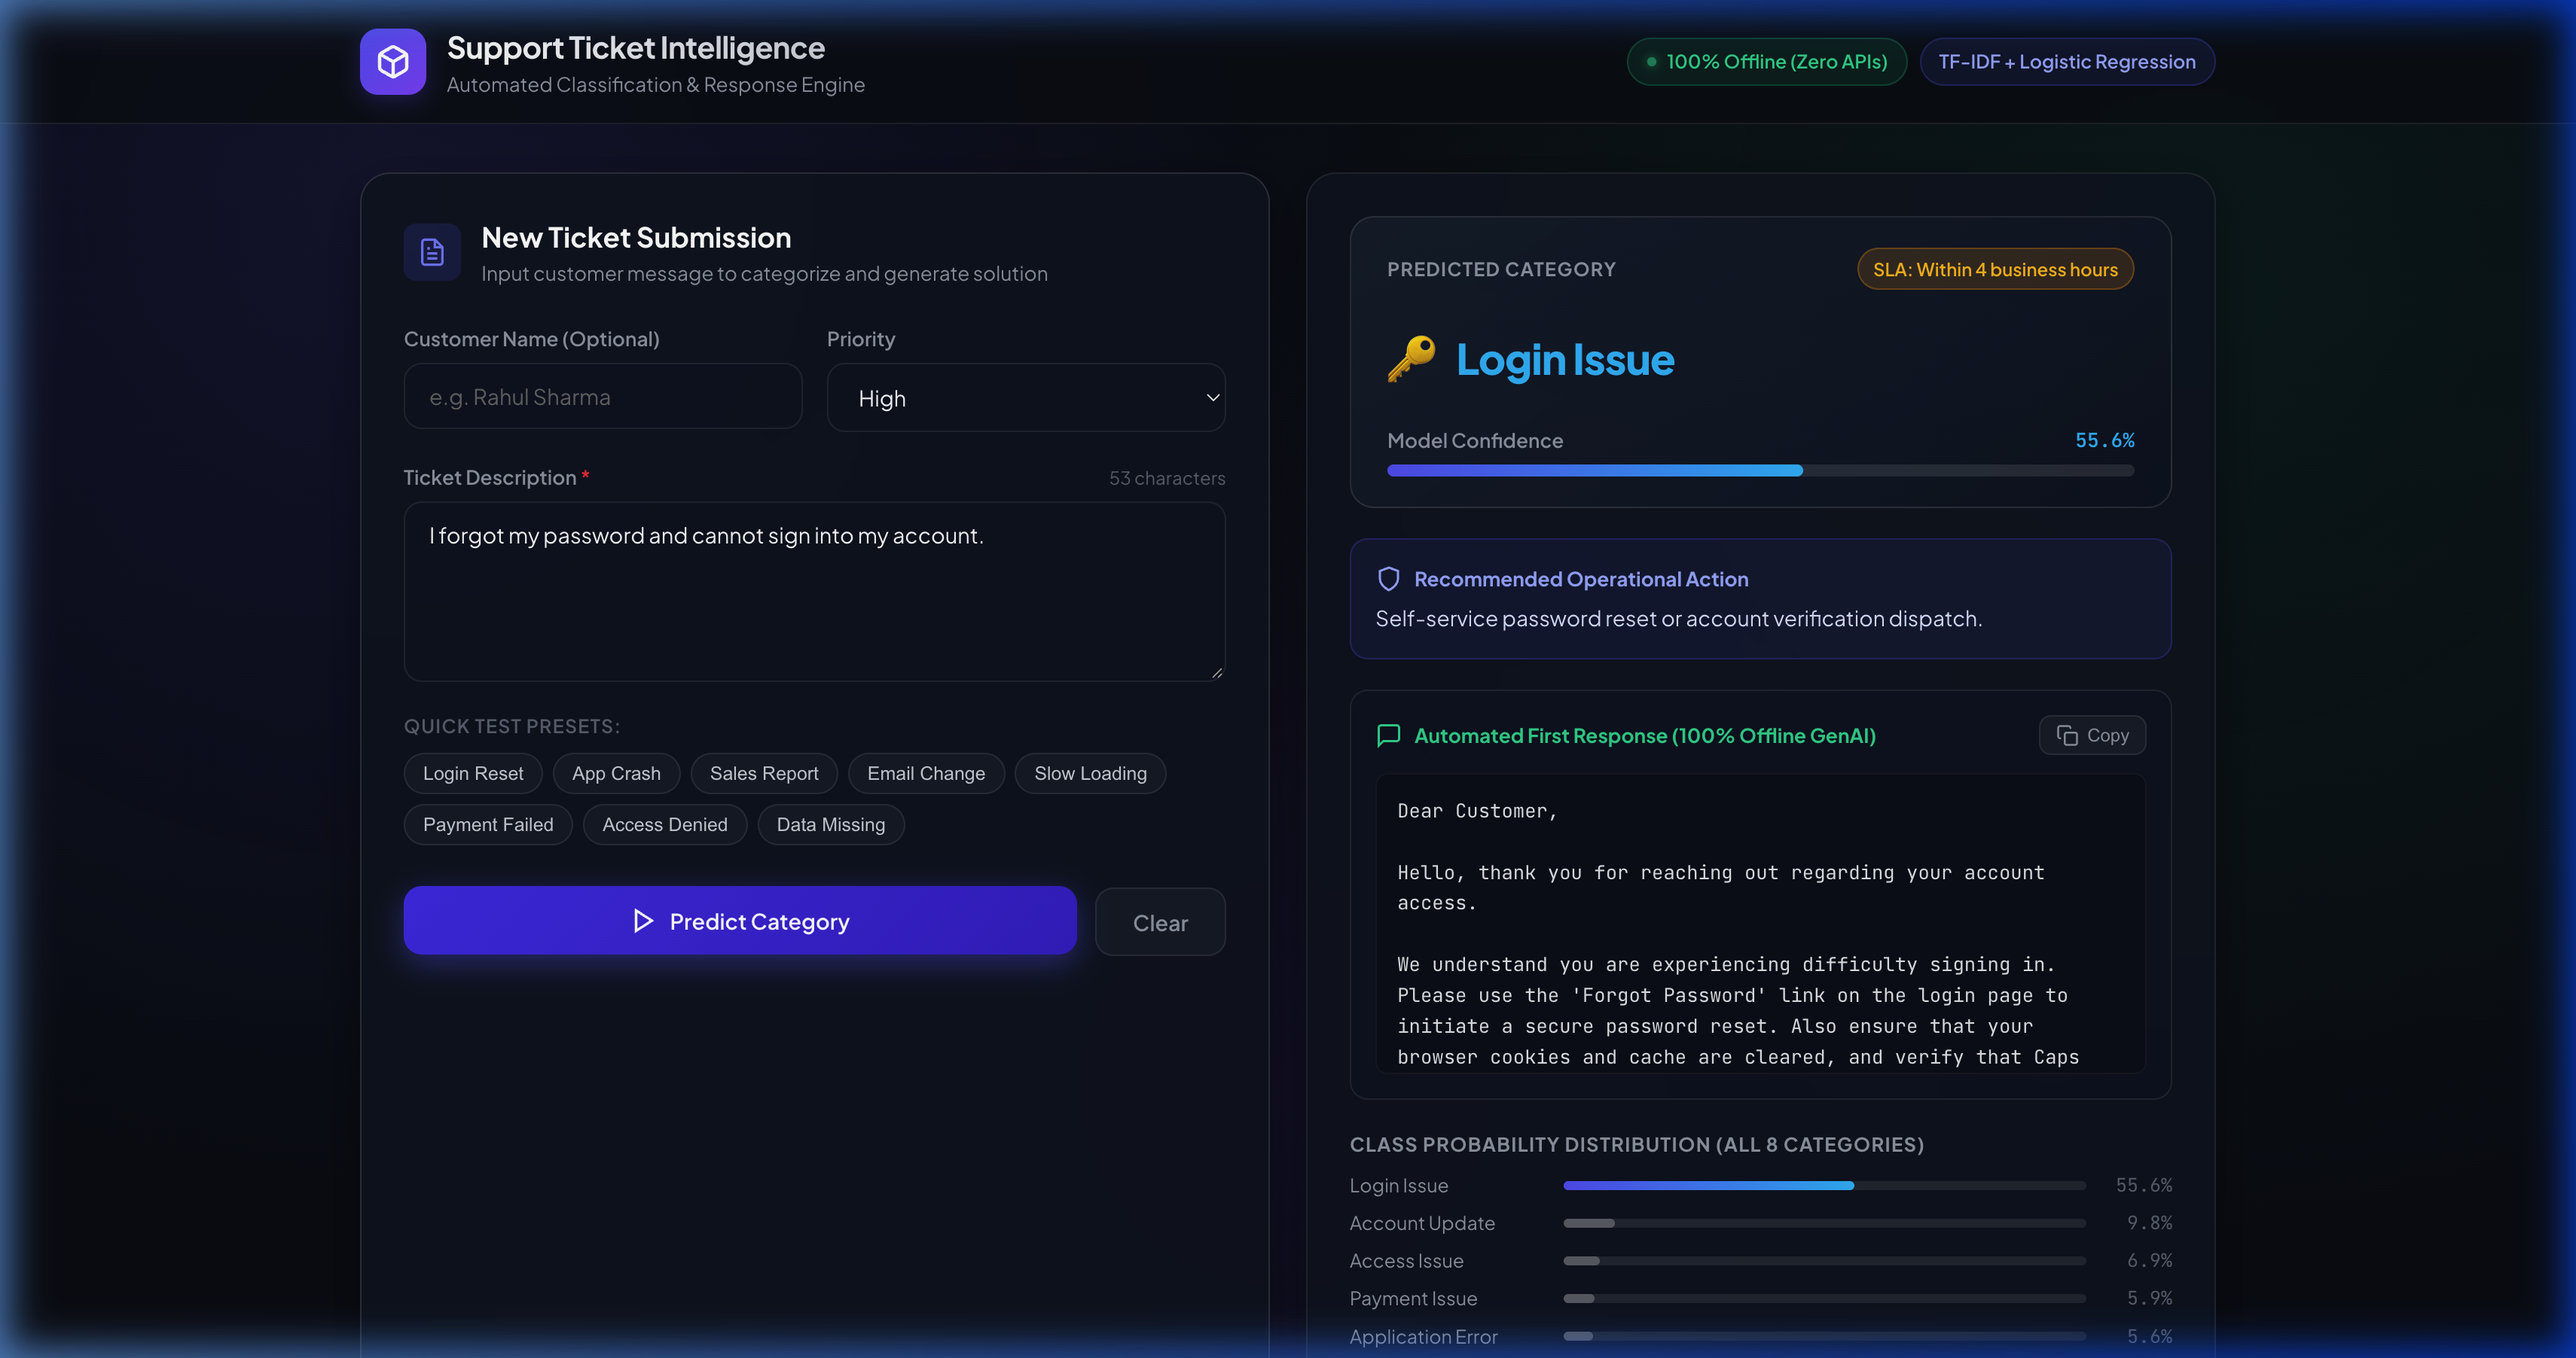
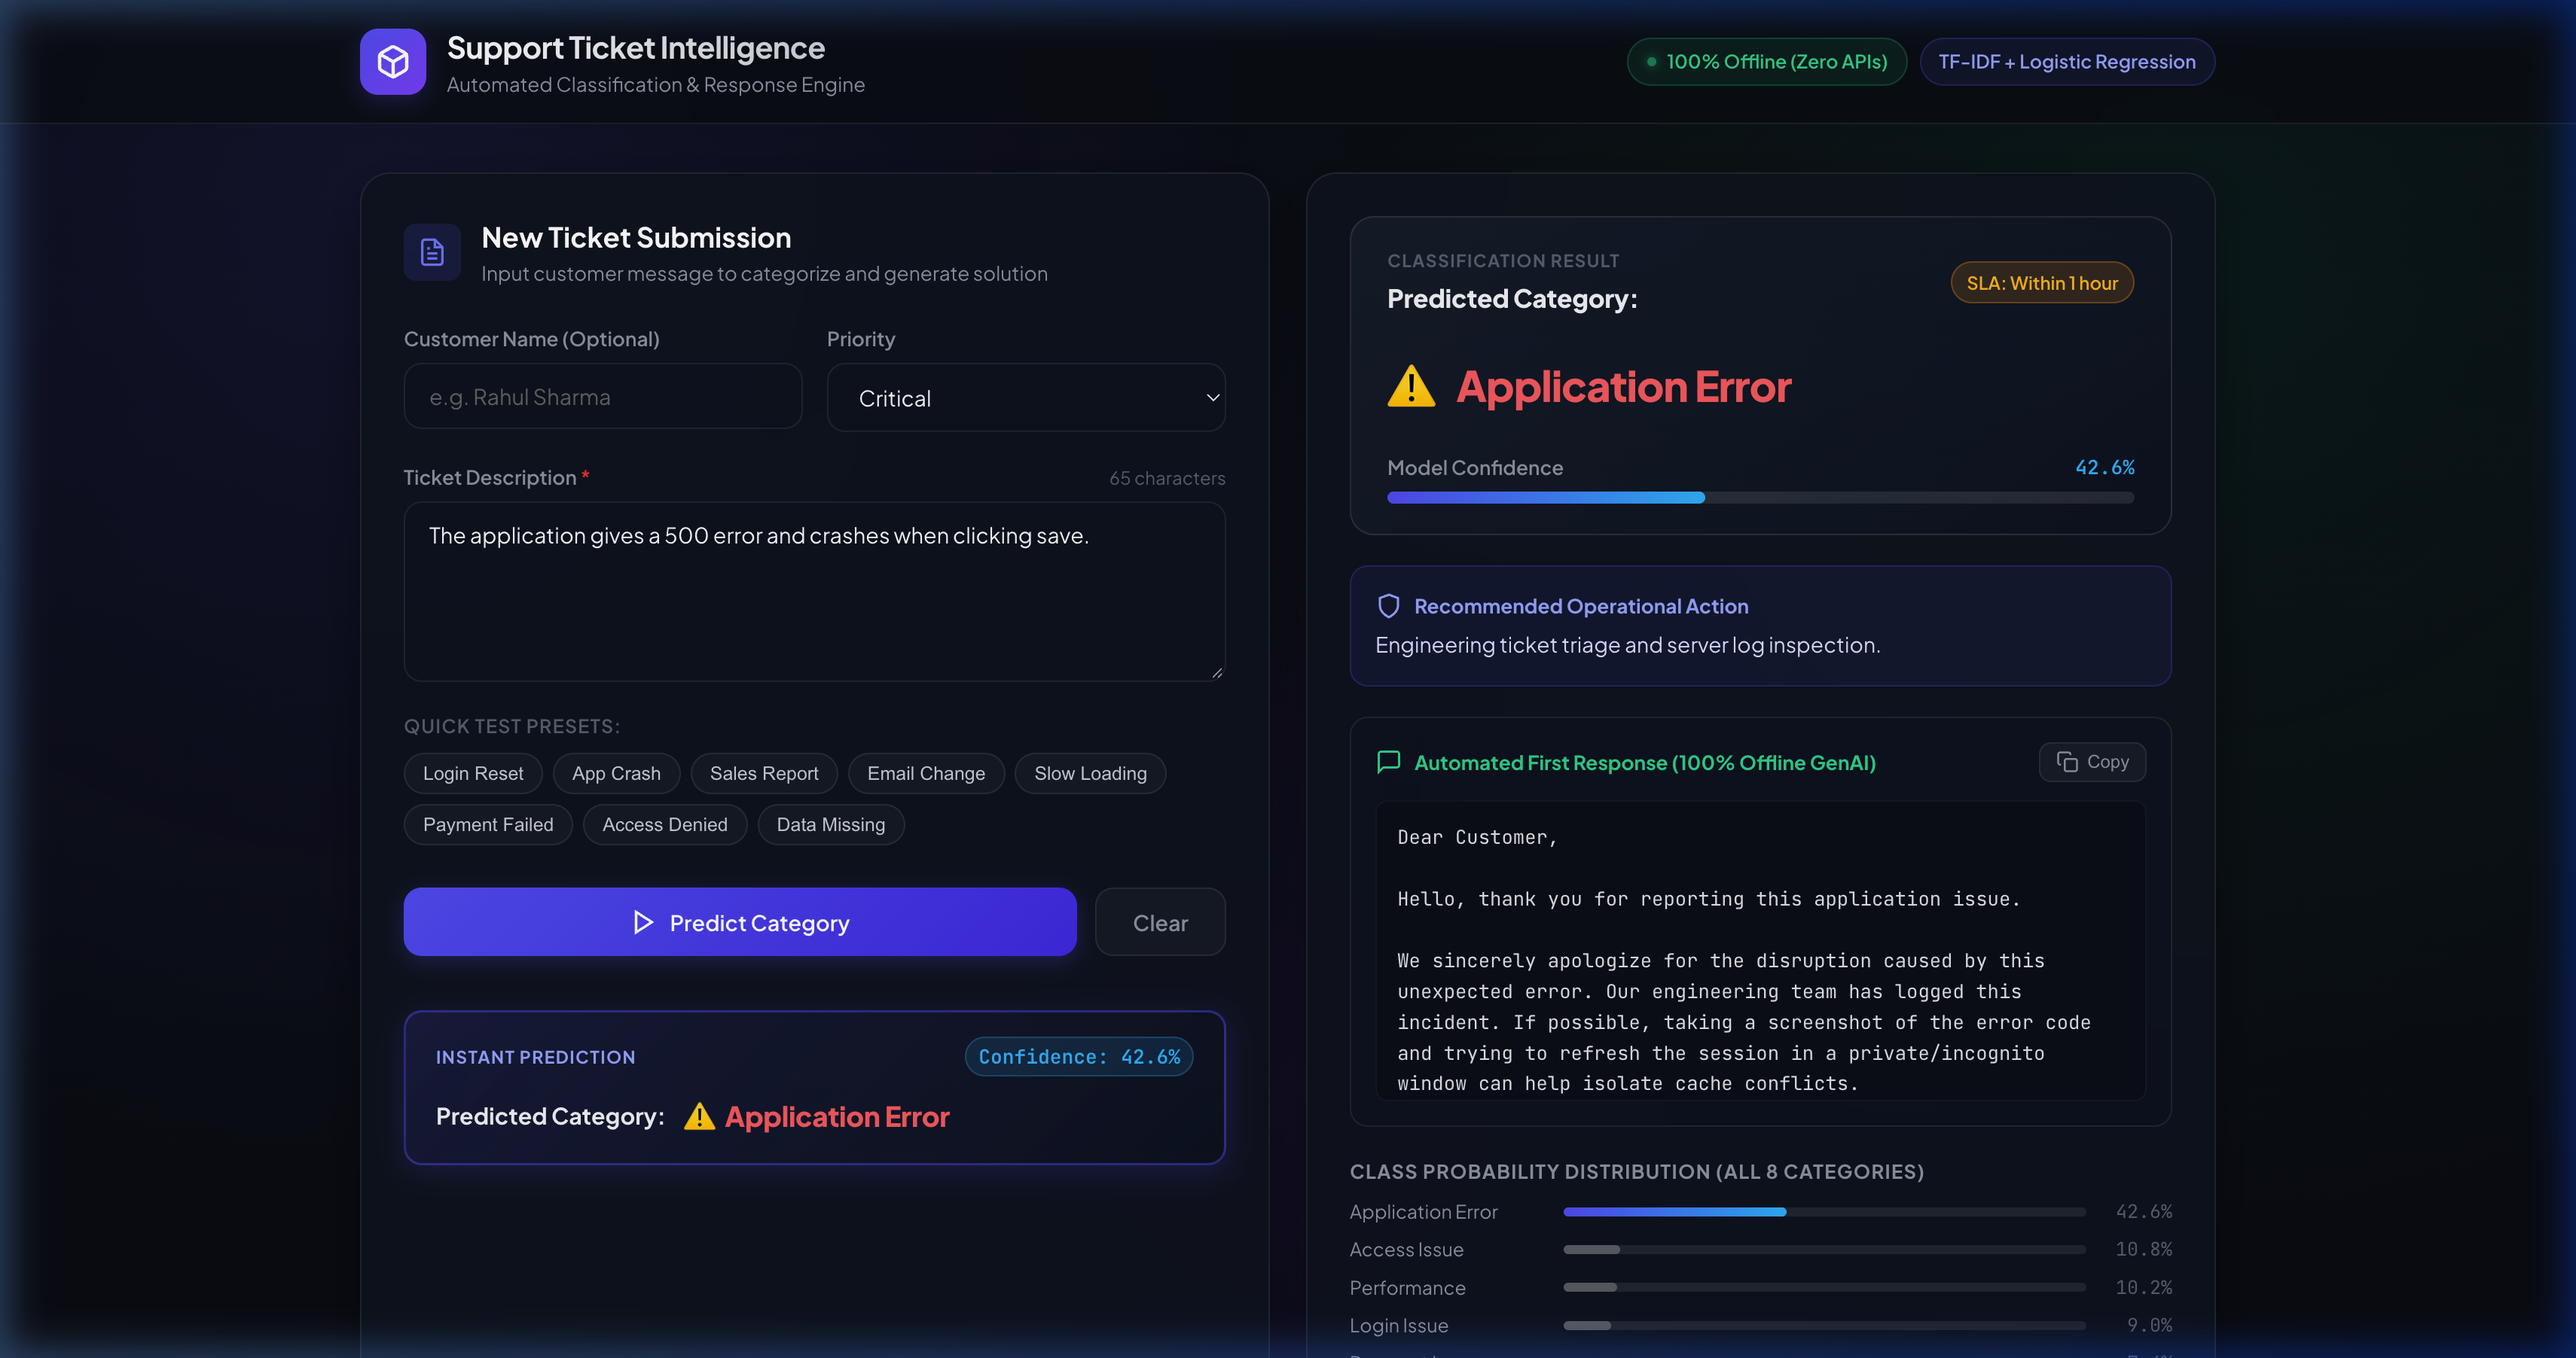
feat(ui): add instant Predicted Category display directly below Predict button

diff --git a/static/app.js b/static/app.js
@@ -28,6 +28,11 @@ document.addEventListener("DOMContentLoaded", () => {
   const copyLabel = document.getElementById("copyLabel");
   const probBarsContainer = document.getElementById("probBarsContainer");
 
+  // Inline Result Elements (Below Predict Button)
+  const inlineResult = document.getElementById("inlineResult");
+  const inlinePredictedCategory = document.getElementById("inlinePredictedCategory");
+  const inlineConfidence = document.getElementById("inlineConfidence");
+
   // Category Icon & Styling Map
   const CATEGORY_META = {
     "Login Issue": { icon: "🔑", class: "cat-login-issue" },
@@ -86,6 +91,7 @@ document.addEventListener("DOMContentLoaded", () => {
     updateCharCount();
     emptyState.classList.remove("hidden");
     outputContent.classList.add("hidden");
+    if (inlineResult) inlineResult.classList.add("hidden");
   });
 
   // Handle Ticket Submission
@@ -139,6 +145,17 @@ document.addEventListener("DOMContentLoaded", () => {
     
     // Reset classes and apply category class
     predictedCategory.className = `category-name ${meta.class}`;
+
+    // Update Inline Instant Result (Directly below Predict button)
+    if (inlineResult && inlinePredictedCategory && inlineConfidence) {
+      inlinePredictedCategory.innerHTML = `<span style="font-size: 1.3rem;">${meta.icon}</span> <span class="${meta.class}">${data.predicted_category}</span>`;
+      inlineConfidence.textContent = `Confidence: ${data.confidence.toFixed(1)}%`;
+      inlineResult.classList.remove("hidden");
+      // Trigger subtle pulse
+      inlineResult.style.animation = "none";
+      inlineResult.offsetHeight; // Trigger reflow
+      inlineResult.style.animation = "resultGlow 0.4s ease-out";
+    }
 
     // SLA & Confidence
     slaBadge.textContent = `SLA: ${data.estimated_sla.split('(')[0].trim()}`;
@@ -201,6 +218,10 @@ document.addEventListener("DOMContentLoaded", () => {
   });
 
   ticketForm.addEventListener("submit", handlePredict);
+  btnPredict.addEventListener("click", (e) => {
+    // If inside form, let submit handle it, or call handlePredict directly
+    handlePredict(e);
+  });
 
   // Initialize
   renderSampleChips();

diff --git a/static/style.css b/static/style.css
@@ -401,6 +401,73 @@ body {
   to { transform: rotate(360deg); }
 }
 
+/* Inline Instant Result Display (Directly below form buttons) */
+.inline-result-card {
+  margin-top: 1rem;
+  background: linear-gradient(135deg, rgba(99, 102, 241, 0.15), rgba(15, 23, 42, 0.95));
+  border: 1.5px solid rgba(99, 102, 241, 0.45);
+  border-radius: var(--radius-md);
+  padding: 1rem 1.25rem;
+  box-shadow: 0 4px 20px rgba(99, 102, 241, 0.2);
+  display: flex;
+  flex-direction: column;
+  gap: 0.65rem;
+  animation: resultGlow 0.4s ease-out;
+}
+
+@keyframes resultGlow {
+  0% { opacity: 0; transform: translateY(-4px) scale(0.98); }
+  100% { opacity: 1; transform: translateY(0) scale(1); }
+}
+
+.inline-result-top {
+  display: flex;
+  justify-content: space-between;
+  align-items: center;
+}
+
+.inline-tag {
+  font-size: 0.72rem;
+  font-weight: 700;
+  text-transform: uppercase;
+  letter-spacing: 0.06em;
+  color: #a5b4fc;
+}
+
+.inline-conf-val {
+  font-family: var(--font-mono);
+  font-size: 0.82rem;
+  font-weight: 700;
+  color: #38bdf8;
+  background: rgba(56, 189, 248, 0.12);
+  padding: 0.15rem 0.5rem;
+  border-radius: 9999px;
+  border: 1px solid rgba(56, 189, 248, 0.25);
+}
+
+.inline-pred-row {
+  display: flex;
+  align-items: center;
+  gap: 0.75rem;
+  flex-wrap: wrap;
+}
+
+.inline-pred-label {
+  font-size: 0.95rem;
+  font-weight: 700;
+  color: #f3f4f6;
+}
+
+.inline-pred-badge {
+  font-size: 1.15rem;
+  font-weight: 800;
+  color: #38bdf8;
+  display: inline-flex;
+  align-items: center;
+  gap: 0.4rem;
+  letter-spacing: -0.01em;
+}
+
 /* Results Panel Styling */
 .empty-state {
   margin: auto;
@@ -460,12 +527,25 @@ body {
   align-items: center;
 }
 
+.hero-title-group {
+  display: flex;
+  flex-direction: column;
+  gap: 0.2rem;
+}
+
 .result-label {
-  font-size: 0.78rem;
+  font-size: 0.72rem;
   text-transform: uppercase;
-  letter-spacing: 0.05em;
+  letter-spacing: 0.06em;
   font-weight: 700;
-  color: var(--text-muted);
+  color: var(--text-dim);
+}
+
+.hero-predicted-heading {
+  font-size: 1.05rem;
+  font-weight: 800;
+  color: #f3f4f6;
+  letter-spacing: -0.01em;
 }
 
 .sla-badge {

diff --git a/static/index.html b/static/index.html
@@ -112,6 +112,18 @@
             </button>
             <button type="button" id="btnClear" class="btn btn-secondary">Clear</button>
           </div>
+
+          <!-- Inline Instant Result Display (Directly below Predict button) -->
+          <div id="inlineResult" class="inline-result-card hidden">
+            <div class="inline-result-top">
+              <span class="inline-tag">Instant Prediction</span>
+              <span class="inline-conf-val" id="inlineConfidence">Confidence: --%</span>
+            </div>
+            <div class="inline-pred-row">
+              <span class="inline-pred-label">Predicted Category:</span>
+              <span class="inline-pred-badge" id="inlinePredictedCategory">--</span>
+            </div>
+          </div>
         </form>
       </section>
 
@@ -137,7 +149,10 @@
           <!-- Primary Prediction Badge -->
           <div class="prediction-hero">
             <div class="hero-top">
-              <span class="result-label">Predicted Category</span>
+              <div class="hero-title-group">
+                <span class="result-label">Classification Result</span>
+                <h3 class="hero-predicted-heading">Predicted Category:</h3>
+              </div>
               <span class="sla-badge" id="slaBadge">SLA: Within 24h</span>
             </div>
             <div class="category-banner" id="categoryBanner">
